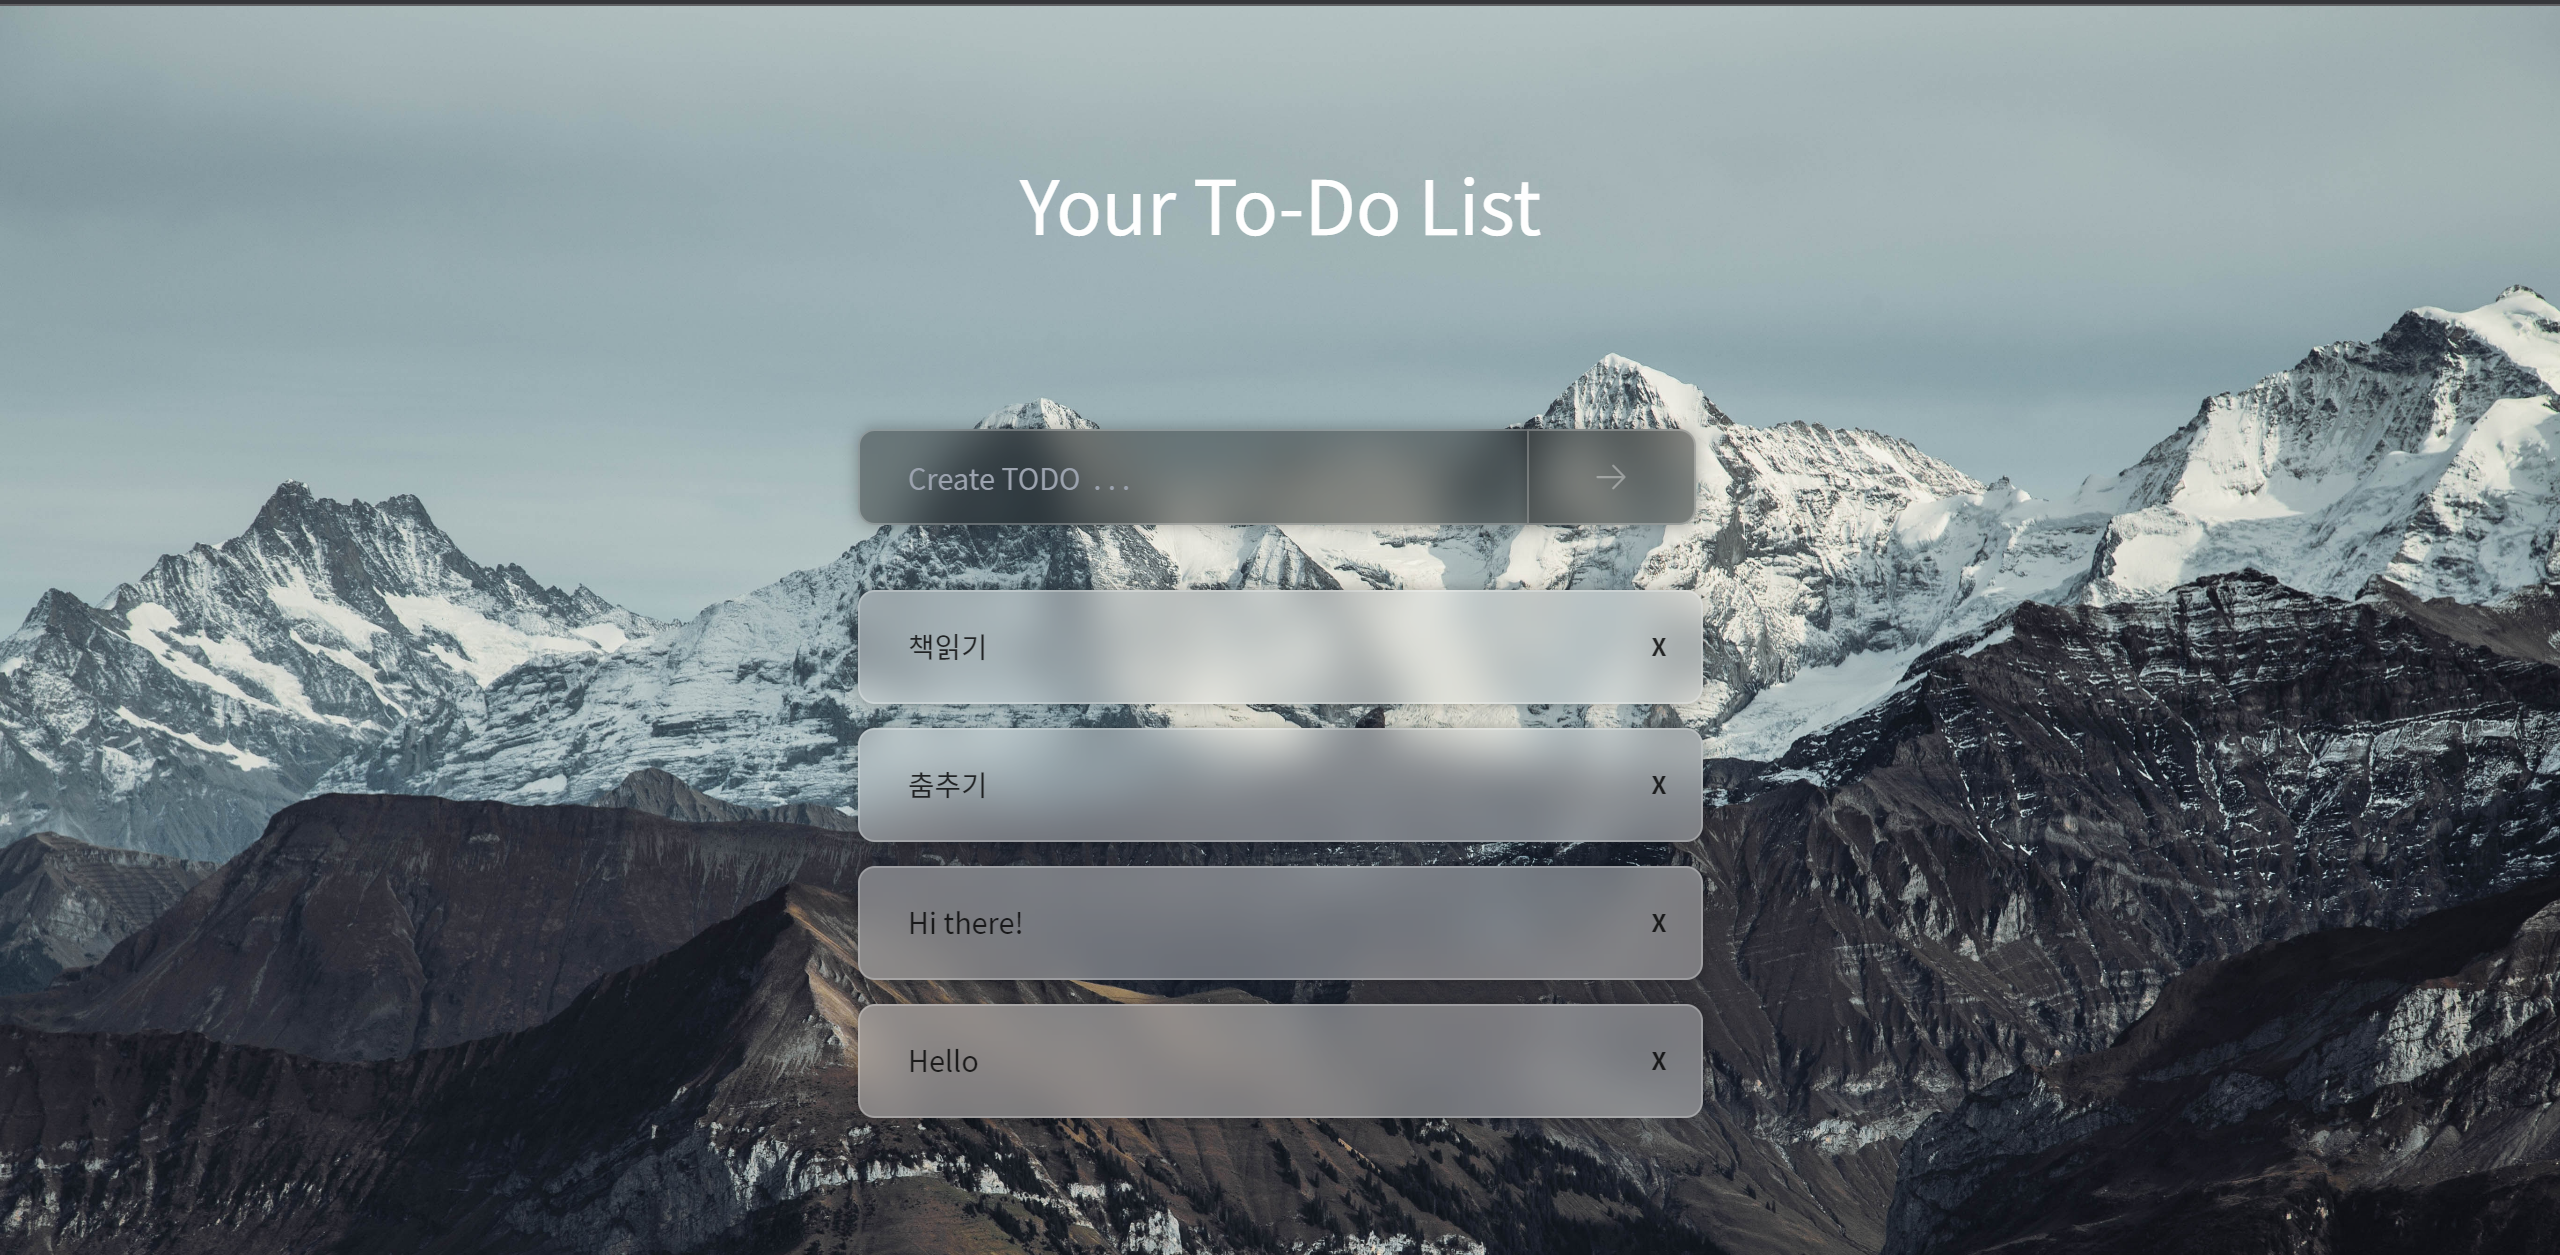
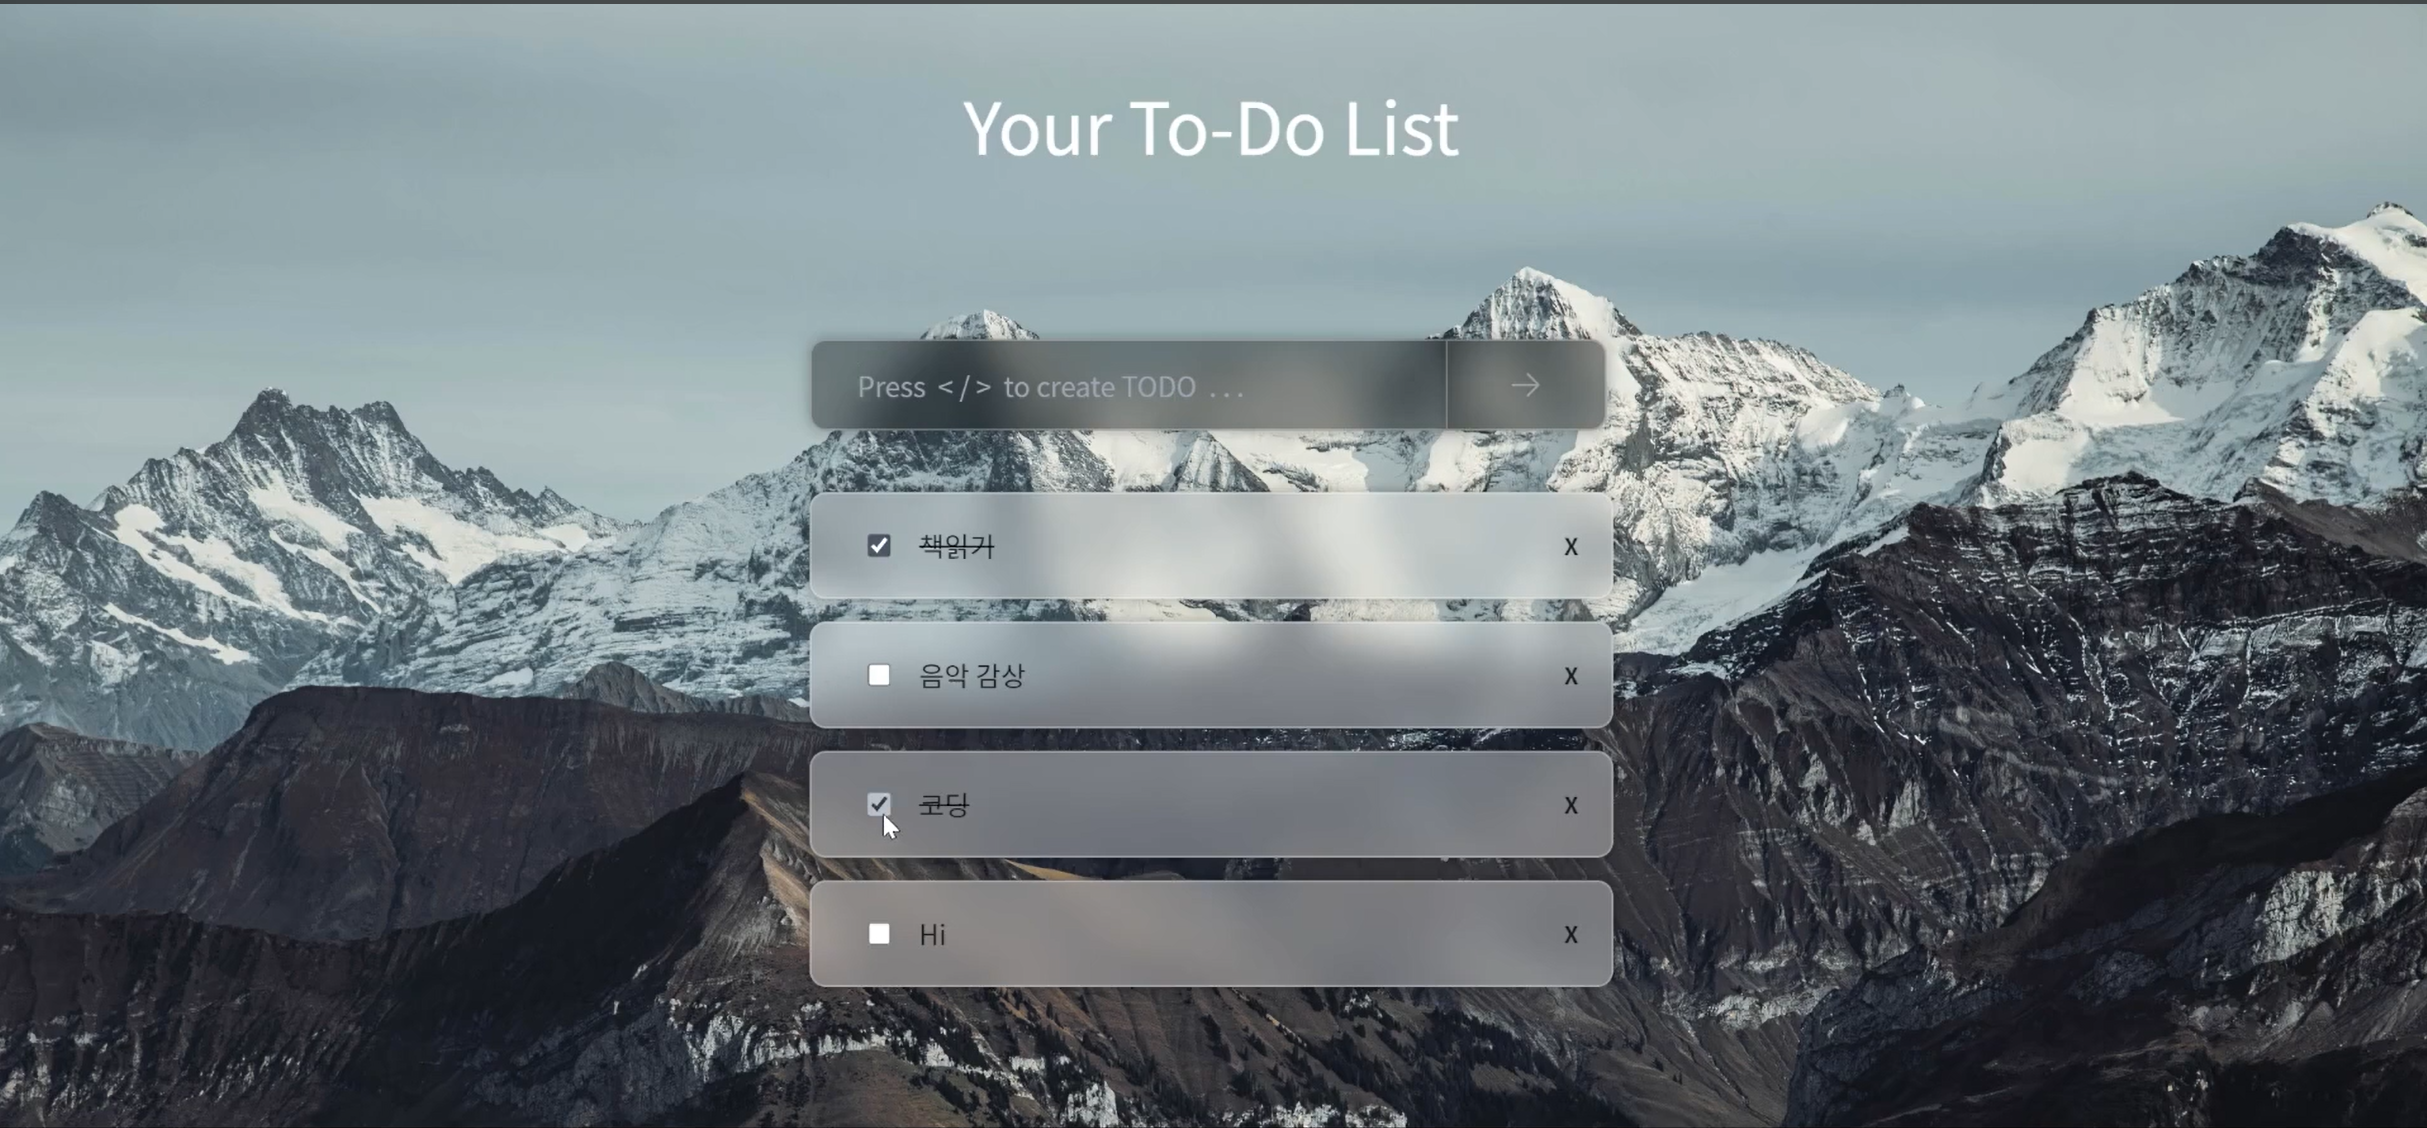
Add output files - Day 19

diff --git a/blog_site/content/posts/aiweb_day19.md b/blog_site/content/posts/aiweb_day19.md
@@ -622,6 +622,13 @@ Sites는 자기 파일들을 업로드하여 배포하는 공간입니다. GitHu
 ---
 <br>
 
+### OUTPUT
+
+![](/posts/posts_images/aiweb_day19/output.png)
+
+<img src="/posts/posts_images/aiweb_day19/todoapp_output.gif">
+
+
 ### Netlify 링크
 
 https://nipa-frontend-todo-4-eunice.netlify.app/
